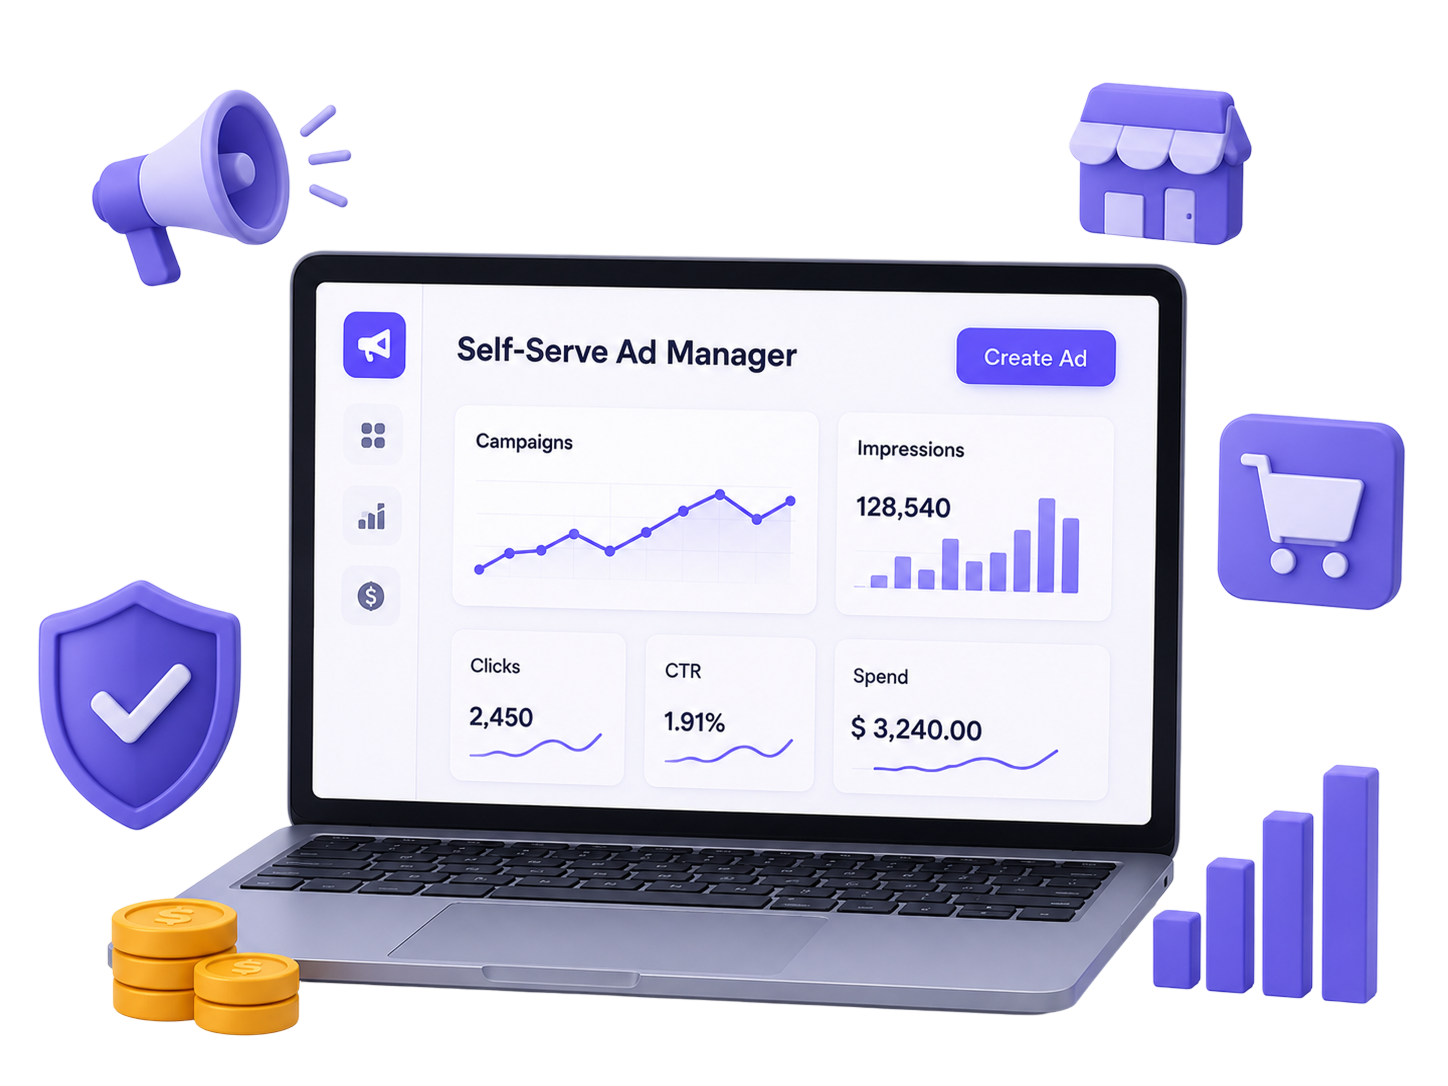
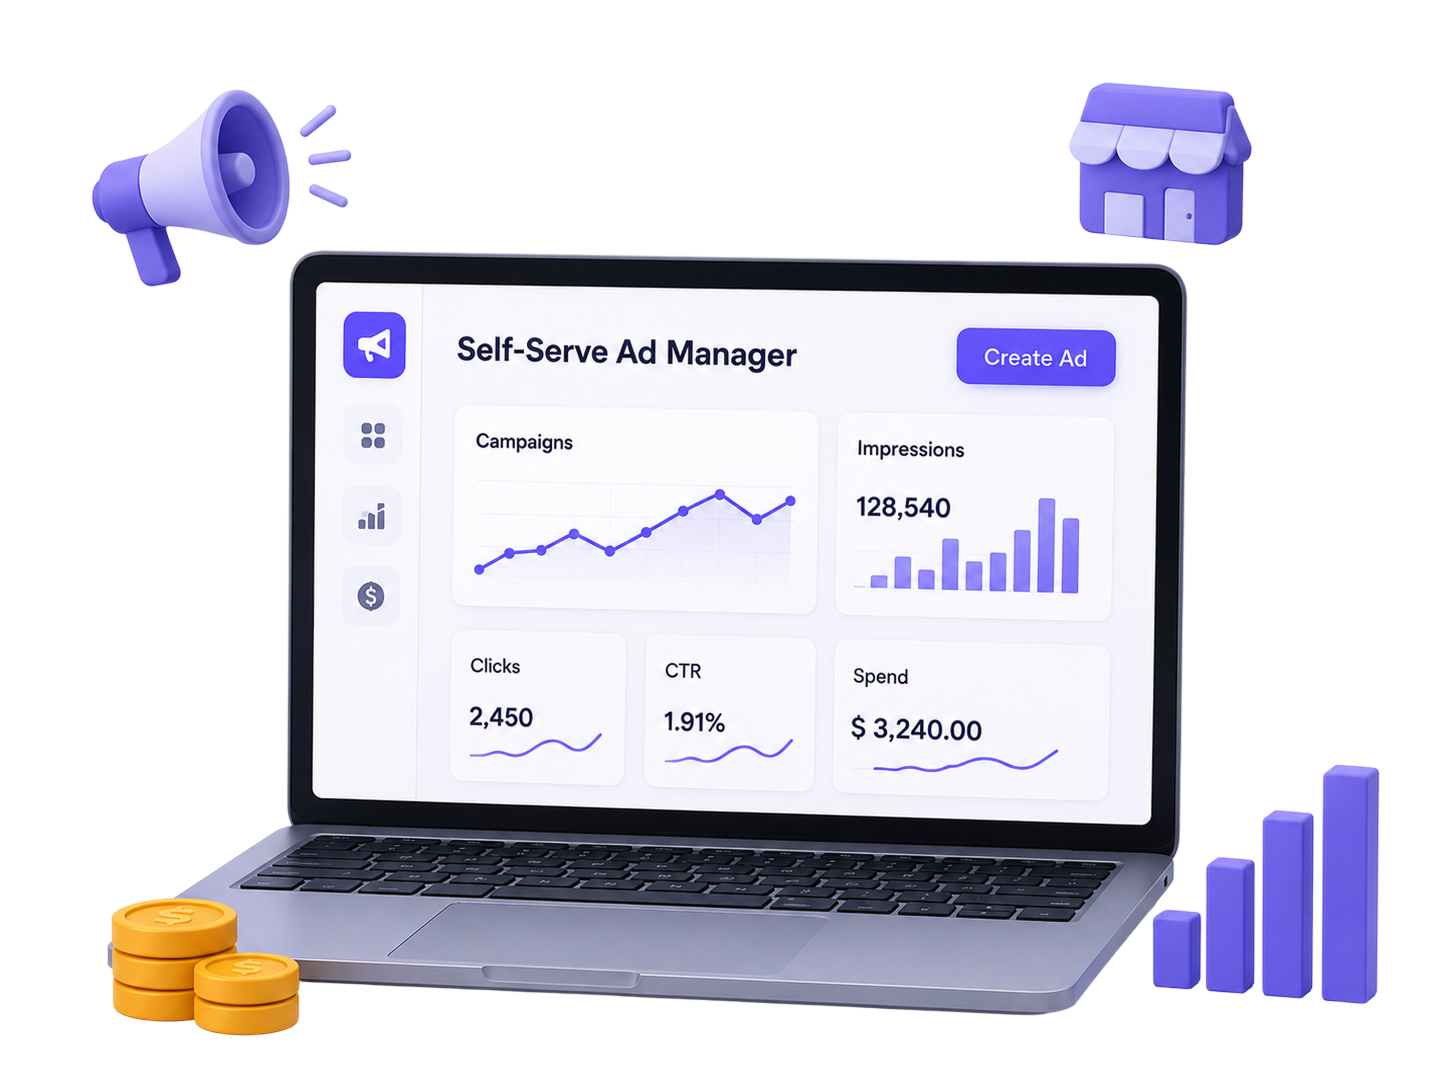
feat(product): swap header buttons, swap pricing blocks, align custom rules layout and update illustration assets

Changed region(s): [[0.0, 0.5166, 0.1865, 0.7597], [0.8391, 0.3646, 0.9945, 0.5773]]

diff --git a/src/app/pages/ProductPage.tsx b/src/app/pages/ProductPage.tsx
@@ -8,7 +8,7 @@ import {
   Check, Zap, Smartphone, LayoutDashboard,
   ShieldOff, Megaphone, ShieldCheck, Zap as ZapIcon,
   TrendingUp, Clock, Store, Lock, CreditCard,
-  ChevronRight, BarChart2, Tag, MapPin, Users, ArrowRight,
+  ChevronRight, BarChart2, Tag, MapPin, Users, ArrowRight, Sliders,
 } from "lucide-react";
 import { Link } from "react-router";
 import image_productIllus from "@/imports/productIllus.png";
@@ -21,6 +21,7 @@ import image_voucher from "@/imports/voucher.png";
 import image_earningmethod from "@/imports/earningmethod.png";
 import image_location from "@/imports/location.png";
 import image_securityIllus from "@/imports/SecurityIllus.png";
+import image_customRules from "@/imports/CustomRules.png";
 
 
 
@@ -213,10 +214,7 @@ function AdCampaignSection() {
                     boxShadow: "0 8px 24px rgba(87,74,219,0.04)",
                   }}
                 >
-                  <div className="flex items-center justify-between mb-4">
-                    <span className="text-xs font-bold tracking-widest text-slate-300">
-                      {step}
-                    </span>
+                  <div className="mb-4">
                     <div
                       className="w-9 h-9 rounded-xl flex items-center justify-center transition-transform duration-300 group-hover:scale-105"
                       style={{ background: bg }}
@@ -224,7 +222,7 @@ function AdCampaignSection() {
                       <Icon className="w-4.5 h-4.5" style={{ color }} />
                     </div>
                   </div>
-                  <h4 className="font-extrabold text-[12px] sm:text-[13px] lg:text-sm whitespace-nowrap overflow-hidden text-ellipsis" style={{ color: "var(--loyawin-neutral-900)", fontFamily: "var(--font-head)" }}>
+                  <h4 className="font-medium text-[12px] sm:text-[13px] lg:text-sm whitespace-nowrap overflow-hidden text-ellipsis" style={{ color: "var(--loyawin-neutral-900)", fontFamily: "var(--font-body)" }}>
                     {title}
                   </h4>
                 </div>
@@ -252,10 +250,10 @@ function AdCampaignSection() {
 
 // ─── Section 4 - Earning & Voucher Rules ──────────────────────────────────────
 const RULES = [
-  { Icon: Clock, title: "Flexible Expiry Policy", color: "var(--loyawin-primary)", bg: "var(--loyawin-primary-xlight)", image: image_flexible },
-  { Icon: Tag, title: "Voucher Inventory Control", color: "#059669", bg: "rgba(5,150,105,0.07)", image: image_voucher },
-  { Icon: Users, title: "Flexible Earning Methods", color: "#D97706", bg: "rgba(217,119,6,0.07)", image: image_earningmethod },
-  { Icon: MapPin, title: "Location-Targeted Campaigns", color: "#DC2626", bg: "rgba(220,38,38,0.07)", image: image_location },
+  { Icon: Clock, title: "Flexible Expiry Policy", color: "var(--loyawin-primary)", bg: "var(--loyawin-primary-xlight)" },
+  { Icon: Tag, title: "Voucher Inventory Control", color: "#059669", bg: "rgba(5,150,105,0.07)" },
+  { Icon: Users, title: "Flexible Earning Methods", color: "#D97706", bg: "rgba(217,119,6,0.07)" },
+  { Icon: MapPin, title: "Location-Targeted Campaigns", color: "#DC2626", bg: "rgba(220,38,38,0.07)" },
 ];
 
 function EarningRulesSection() {
@@ -263,6 +261,8 @@ function EarningRulesSection() {
   return (
     <section ref={ref} className="py-20 sm:py-28 relative" style={{ background: "linear-gradient(180deg, #F8F9FF 0%, white 100%)" }}>
       <div className="max-w-[1280px] mx-auto px-4 sm:px-6 md:px-12 lg:px-16">
+
+        {/* Section Header */}
         <div className="max-w-2xl mb-14 transition-all duration-700" style={{ opacity: visible ? 1 : 0, transform: visible ? "translateY(0)" : "translateY(24px)" }}>
           <SectionLabel>Custom Rules</SectionLabel>
           <h2 className="text-3xl sm:text-4xl font-extrabold tracking-tight mb-4" style={{ color: "var(--loyawin-neutral-900)", fontFamily: "var(--font-head)", letterSpacing: "-0.025em" }}>
@@ -272,50 +272,53 @@ function EarningRulesSection() {
             Your loyalty programme is as unique as your brand. Granular controls let you design a programme that fits your business model exactly - not the other way around.
           </p>
         </div>
-        <div className="grid grid-cols-1 sm:grid-cols-2 gap-4">
-          {RULES.map(({ Icon, title, color, bg, image }, i) => (
-            <div
-              key={i}
-              className="rounded-3xl p-6 border group transition-all duration-300 hover:shadow-lg hover:translate-y-[-4px] flex flex-col justify-between w-full"
-              style={{
-                background: "white",
-                borderColor: "rgba(87,74,219,0.06)",
-                boxShadow: "0 10px 30px rgba(87,74,219,0.04)",
-                opacity: visible ? 1 : 0,
-                transform: visible ? "translateY(0)" : "translateY(28px)",
-                transition: `opacity 0.6s ease ${i * 0.12}s, transform 0.6s ease ${i * 0.12}s, box-shadow 0.3s, transform 0.3s`,
-              }}
-            >
-              {/* Illustration Area without gray container - matches style exactly */}
-              <div className="w-full h-56 sm:h-64 flex items-center justify-center mb-5 overflow-hidden relative">
-                {image ? (
-                  <img
-                    src={image}
-                    alt={title}
-                    className="w-full h-full object-contain transition-transform duration-500 group-hover:scale-[1.03] drop-shadow-[0_10px_24px_rgba(118,81,252,0.05)]"
-                  />
-                ) : (
-                  <>
-                    <div className="absolute inset-0 bg-gradient-to-tr from-indigo-50/30 to-purple-50/30 opacity-70" />
-                    <Icon className="w-16 h-16 opacity-[0.15] transition-transform duration-500 group-hover:scale-110" style={{ color }} />
-                    <span className="absolute bottom-3 text-[11px] font-bold tracking-widest uppercase opacity-30" style={{ color }}>
-                      Placeholder
-                    </span>
-                  </>
-                )}
-              </div>
 
-              {/* Card Footer Info */}
-              <div className="flex items-center gap-4">
-                <div className="w-11 h-11 rounded-xl flex items-center justify-center flex-shrink-0" style={{ background: bg }}>
-                  <Icon className="w-5 h-5" style={{ color }} />
+        <div className="grid lg:grid-cols-2 gap-12 lg:gap-16 items-center">
+
+          {/* Left Column - Cards Grid */}
+          <div
+            className="transition-all duration-700 delay-100 w-full max-w-[480px] mx-auto"
+            style={{ opacity: visible ? 1 : 0, transform: visible ? "translateY(0)" : "translateY(28px)" }}
+          >
+            {/* 4 Cards in 2x2 Grid */}
+            <div className="grid grid-cols-1 sm:grid-cols-2 gap-4">
+              {RULES.map(({ Icon, title, color, bg }, i) => (
+                <div
+                  key={i}
+                  className="rounded-2xl p-5 border group transition-all duration-300 hover:shadow-md hover:translate-y-[-2px] flex flex-col justify-between min-h-[128px]"
+                  style={{
+                    background: "white",
+                    borderColor: "rgba(87,74,219,0.08)",
+                    boxShadow: "0 4px 20px rgba(87,74,219,0.04)",
+                  }}
+                >
+                  <div className="mb-3">
+                    <div className="w-10 h-10 rounded-xl flex items-center justify-center flex-shrink-0" style={{ background: bg }}>
+                      <Icon className="w-5 h-5" style={{ color }} />
+                    </div>
+                  </div>
+                  <h3 className="font-medium text-sm sm:text-base text-slate-900 leading-snug" style={{ fontFamily: "var(--font-body)" }}>
+                    {title}
+                  </h3>
                 </div>
-                <h3 className="font-extrabold text-base text-slate-900" style={{ fontFamily: "var(--font-head)" }}>
-                  {title}
-                </h3>
-              </div>
+              ))}
             </div>
-          ))}
+          </div>
+
+          {/* Right Column - Illustration Placeholder (to be supplied later) */}
+          <div
+            className="flex items-center justify-center transition-all duration-700 delay-200 w-full"
+            style={{ opacity: visible ? 1 : 0, transform: visible ? "translateY(0)" : "translateY(32px)" }}
+          >
+            <div className="w-full aspect-[4/3] rounded-3xl flex items-center justify-center overflow-hidden relative">
+              <img
+                src={image_customRules}
+                alt="Custom Earning Rules Illustration"
+                className="w-full h-full object-contain drop-shadow-[0_12px_36px_rgba(118,81,252,0.08)]"
+              />
+            </div>
+          </div>
+
         </div>
       </div>
     </section>

diff --git a/src/app/pages/Home.tsx b/src/app/pages/Home.tsx
@@ -369,7 +369,7 @@ function ComparisonSection() {
                   className="block w-full text-center text-sm font-bold py-3.5 rounded-xl no-underline text-white transition-all hover:scale-[1.02] hover:shadow-lg whitespace-nowrap"
                   style={{ background: "linear-gradient(135deg, var(--loyawin-primary) 0%, var(--loyawin-primary-light) 100%)", boxShadow: "0 6px 24px var(--loyawin-primary-glow)" }}
                 >
-                  Start for €5/mo →
+                  Start Your Trial →
                 </a>
               </div>
             </div>
@@ -600,28 +600,9 @@ function PricingSection() {
           <h2 className="text-3xl sm:text-4xl font-extrabold tracking-tight" style={{ color: "var(--loyawin-neutral-900)", fontFamily: "var(--font-head)" }}>Transparent Pricing. Zero Surprises.</h2>
           <p className="mt-3 text-base max-w-md mx-auto" style={{ color: "var(--loyawin-neutral-500)" }}>One flat-rate for merchants. Forever free for customers.</p>
         </div>
-        <div className="grid lg:grid-cols-2 gap-6 max-w-[860px] mx-auto items-stretch">
-          {/* Merchant */}
-          <div className="rounded-2xl overflow-hidden border flex flex-col" style={{ borderColor: "rgba(87,74,219,0.2)", boxShadow: "0 16px 60px rgba(87,74,219,0.14)", opacity: visible ? 1 : 0, transform: visible ? "translateY(0)" : "translateY(28px)", transition: "opacity 0.7s ease 0.1s, transform 0.7s ease 0.1s" }}>
-            <div className="px-6 pt-8 pb-6" style={{ background: "linear-gradient(160deg, var(--loyawin-bg3) 0%, white 100%)" }}>
-              <div className="text-xs font-bold tracking-widest uppercase mb-2" style={{ color: "var(--loyawin-primary)" }}>Merchant Plan</div>
-              <div className="flex items-end gap-1 mb-1">
-                <span className="text-5xl font-extrabold" style={{ color: "var(--loyawin-neutral-900)", fontFamily: "var(--font-head)" }}>€5</span>
-                <span className="text-lg font-medium mb-2" style={{ color: "var(--loyawin-neutral-500)" }}>/ month</span>
-              </div>
-              <p className="text-sm" style={{ color: "var(--loyawin-neutral-500)" }}>Flat-rate. No transaction fees. No tier upgrades.</p>
-            </div>
-            <div className="px-6 pb-6 flex flex-col flex-1" style={{ background: "white" }}>
-              <ul className="space-y-2.5 mt-5 flex-1">
-                {MERCHANT_FEATURES.map((f) => (<li key={f} className="flex items-center gap-2.5 text-sm" style={{ color: "var(--loyawin-neutral-700)" }}><Check className="w-4 h-4 flex-shrink-0" style={{ color: "var(--loyawin-primary)" }} />{f}</li>))}
-              </ul>
-              <a href="https://brand.loyawin.com/register" target="_blank" rel="noopener noreferrer" className="block w-full text-center text-white font-semibold py-3.5 rounded-full no-underline transition-all hover:translate-y-[-1px] whitespace-nowrap mt-6" style={{ background: "linear-gradient(135deg, var(--loyawin-primary), var(--loyawin-primary-light))", boxShadow: "0 6px 20px var(--loyawin-primary-glow)", fontFamily: "var(--font-body)" }}>
-                Start Your Trial
-              </a>
-            </div>
-          </div>
+        <div className="grid grid-cols-1 lg:grid-cols-2 gap-6 max-w-[860px] mx-auto items-stretch">
           {/* Customer */}
-          <div className="rounded-2xl overflow-hidden border flex flex-col" style={{ borderColor: "rgba(87,74,219,0.1)", boxShadow: "0 4px 24px rgba(87,74,219,0.06)", opacity: visible ? 1 : 0, transform: visible ? "translateY(0)" : "translateY(28px)", transition: "opacity 0.7s ease 0.2s, transform 0.7s ease 0.2s" }}>
+          <div className="rounded-2xl overflow-hidden border flex flex-col" style={{ borderColor: "rgba(87,74,219,0.1)", boxShadow: "0 4px 24px rgba(87,74,219,0.06)", opacity: visible ? 1 : 0, transform: visible ? "translateY(0)" : "translateY(28px)", transition: "opacity 0.7s ease 0.1s, transform 0.7s ease 0.1s" }}>
             <div className="px-6 pt-8 pb-6" style={{ background: "linear-gradient(160deg, #f0fdf4 0%, white 100%)" }}>
               <div className="text-xs font-bold tracking-widest uppercase mb-2" style={{ color: "#059669" }}>Customer Plan</div>
               <div className="flex items-end gap-1 mb-1">
@@ -636,6 +617,25 @@ function PricingSection() {
               </ul>
               <a href="https://app.loyawin.com" target="_blank" rel="noopener noreferrer" className="block w-full text-center font-semibold py-3.5 rounded-full no-underline transition-all hover:translate-y-[-1px] whitespace-nowrap mt-6" style={{ border: "1.5px solid #059669", color: "#059669", fontFamily: "var(--font-body)", background: "white" }}>
                 Download Free App
+              </a>
+            </div>
+          </div>
+          {/* Merchant */}
+          <div className="rounded-2xl overflow-hidden border flex flex-col" style={{ borderColor: "rgba(87,74,219,0.2)", boxShadow: "0 16px 60px rgba(87,74,219,0.14)", opacity: visible ? 1 : 0, transform: visible ? "translateY(0)" : "translateY(28px)", transition: "opacity 0.7s ease 0.2s, transform 0.7s ease 0.2s" }}>
+            <div className="px-6 pt-8 pb-6" style={{ background: "linear-gradient(160deg, var(--loyawin-bg3) 0%, white 100%)" }}>
+              <div className="text-xs font-bold tracking-widest uppercase mb-2" style={{ color: "var(--loyawin-primary)" }}>Merchant Plan</div>
+              <div className="flex items-end gap-1 mb-1">
+                <span className="text-5xl font-extrabold" style={{ color: "var(--loyawin-neutral-900)", fontFamily: "var(--font-head)" }}>€5</span>
+                <span className="text-lg font-medium mb-2" style={{ color: "var(--loyawin-neutral-500)" }}>/ month</span>
+              </div>
+              <p className="text-sm" style={{ color: "var(--loyawin-neutral-500)" }}>Flat-rate. No transaction fees. No tier upgrades.</p>
+            </div>
+            <div className="px-6 pb-6 flex flex-col flex-1" style={{ background: "white" }}>
+              <ul className="space-y-2.5 mt-5 flex-1">
+                {MERCHANT_FEATURES.map((f) => (<li key={f} className="flex items-center gap-2.5 text-sm" style={{ color: "var(--loyawin-neutral-700)" }}><Check className="w-4 h-4 flex-shrink-0" style={{ color: "var(--loyawin-primary)" }} />{f}</li>))}
+              </ul>
+              <a href="https://brand.loyawin.com/register" target="_blank" rel="noopener noreferrer" className="block w-full text-center text-white font-semibold py-3.5 rounded-full no-underline transition-all hover:translate-y-[-1px] whitespace-nowrap mt-6" style={{ background: "linear-gradient(135deg, var(--loyawin-primary), var(--loyawin-primary-light))", boxShadow: "0 6px 20px var(--loyawin-primary-glow)", fontFamily: "var(--font-body)" }}>
+                Start Your Trial
               </a>
             </div>
           </div>

diff --git a/src/app/components/Navbar.tsx b/src/app/components/Navbar.tsx
@@ -251,7 +251,7 @@ export function Navbar() {
             {/* Desktop Buttons Group */}
             <div className="hidden lg:flex items-center gap-4">
               <button
-                onClick={() => window.alert("Login functionality to be implemented")}
+                onClick={() => window.alert("Customer portal to be implemented")}
                 className="bg-transparent border cursor-pointer px-4 xl:px-5 py-2.5 rounded-full text-sm font-semibold transition-all duration-200 hover:bg-[var(--loyawin-primary-xlight)] whitespace-nowrap"
                 style={{
                   borderColor: "var(--loyawin-primary)",
@@ -260,7 +260,7 @@ export function Navbar() {
                   fontFamily: "var(--font-body)",
                 }}
               >
-                {t.nav.login}
+                {t.nav.startTrial}
               </button>
               <button
                 onClick={() => navigate("/contact")}
@@ -271,7 +271,7 @@ export function Navbar() {
                   fontFamily: "var(--font-body)",
                 }}
               >
-                {t.nav.startTrial}
+                {t.nav.login}
               </button>
             </div>
 
@@ -300,16 +300,16 @@ export function Navbar() {
                 {navLinks.map((link) => (
                   <li key={link.path}>
                     <Link
-                      to={link.path}
-                      className="w-full text-left px-5 py-3 text-sm font-medium transition-colors no-underline block"
-                      style={{
-                        color: isActive(link.path)
-                          ? "var(--loyawin-primary)"
-                          : "var(--loyawin-neutral-700)",
-                        background: isActive(link.path)
-                          ? "var(--loyawin-primary-xlight)"
-                          : "transparent",
-                      }}
+                       to={link.path}
+                       className="w-full text-left px-5 py-3 text-sm font-medium transition-colors no-underline block"
+                       style={{
+                         color: isActive(link.path)
+                           ? "var(--loyawin-primary)"
+                           : "var(--loyawin-neutral-700)",
+                         background: isActive(link.path)
+                           ? "var(--loyawin-primary-xlight)"
+                           : "transparent",
+                       }}
                     >
                       {link.label}
                     </Link>
@@ -326,7 +326,7 @@ export function Navbar() {
                     fontFamily: "var(--font-body)",
                   }}
                 >
-                  {t.nav.startTrial}
+                  {t.nav.login}
                 </button>
               </div>
             </div>